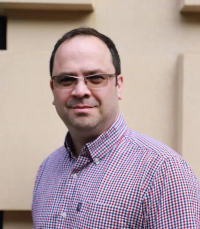
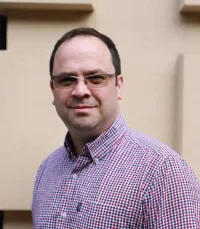
perf(cwv): optimize mobile LCP image delivery, deduplicate fonts, and defer chat widget init

diff --git a/index.html b/index.html
@@ -11,8 +11,7 @@
 <meta name="referrer" content="strict-origin-when-cross-origin">
 
 <link rel="canonical" href="https://radustoian.com" />
-<link rel="preload" as="image" href="/radu-stoian-enhance-media.jpg" media="(min-width: 641px)" fetchpriority="high">
-<link rel="preload" as="image" href="/radu-stoian-enhance-media.webp" media="(max-width: 640px)" type="image/webp" fetchpriority="high">
+<link rel="preload" as="image" href="/radu-stoian-enhance-media.webp" type="image/webp" fetchpriority="high">
 <link rel="alternate" type="text/markdown" href="https://radustoian.com/index.md.txt" title="Markdown Version">
 <link rel="describedby" type="text/markdown" href="https://radustoian.com/llms-full.txt">
 <link rel="describedby" type="application/json" href="https://radustoian.com/metadata.json">
@@ -54,14 +53,13 @@
 
 <link rel="preconnect" href="https://fonts.googleapis.com">
 <link rel="preconnect" href="https://fonts.gstatic.com" crossorigin>
-<link rel="stylesheet" href="https://fonts.googleapis.com/css2?family=Fraunces:ital,opsz,wght@0,9..144,500;1,9..144,400&display=swap">
-<link rel="stylesheet" href="https://fonts.googleapis.com/css2?family=Inter:wght@400;500;600&display=swap">
-<link rel="stylesheet" href="styles.css?v=3.1">
-<link rel="preload" href="chat-widget.css?v=3.6" as="style" id="nlwebChatStylesLink">
-<noscript><link rel="stylesheet" href="chat-widget.css?v=3.6"></noscript>
-<script src="js/script.js" defer></script>
+<link rel="stylesheet" href="https://fonts.googleapis.com/css2?family=Fraunces:ital,opsz,wght@0,9..144,500;1,9..144,400&family=Inter:wght@400;500;600&display=swap">
+<link rel="stylesheet" href="styles.css?v=3.3">
+<link rel="stylesheet" href="chat-widget.css?v=3.7" media="print" onload="this.media='all'" id="nlwebChatStylesLink">
+<noscript><link rel="stylesheet" href="chat-widget.css?v=3.7"></noscript>
+<script src="js/script.js?v=3.2" defer></script>
 <script src="js/webmcp.js" defer></script>
-<script src="js/chat-widget.js?v=4.0" defer></script>
+<script src="js/chat-widget.js?v=4.1" defer></script>
 </head>
 <body id="top">
 
@@ -101,9 +99,8 @@
     <header class="hero panel">
       <div class="hero-portrait card-3d">
         <picture>
-          <source media="(min-width: 641px)" srcset="/radu-stoian-enhance-media.jpg" type="image/jpeg">
-          <source media="(max-width: 640px)" srcset="/radu-stoian-enhance-media.webp" type="image/webp">
-          <img src="/radu-stoian-enhance-media.webp" width="200" height="200" alt="Radu Stoian Technical Director Enhance Media headshot" fetchpriority="high" decoding="sync">
+          <source srcset="/radu-stoian-enhance-media.webp" type="image/webp">
+          <img src="/radu-stoian-enhance-media.jpg" width="200" height="200" alt="Radu Stoian Technical Director Enhance Media headshot" fetchpriority="high" decoding="sync">
         </picture>
         <div class="fallback" style="display:none;">RS</div>
       </div>

diff --git a/js/chat-widget.js b/js/chat-widget.js
@@ -20,17 +20,17 @@
   // Ensure chat stylesheet is activated non-render-blocking
   function ensureChatStyles() {
     const preloadLink = document.getElementById('nlwebChatStylesLink');
-    if (preloadLink && preloadLink.rel !== 'stylesheet') {
-      preloadLink.rel = 'stylesheet';
+    if (preloadLink) {
+      if (preloadLink.rel !== 'stylesheet') preloadLink.rel = 'stylesheet';
+      if (preloadLink.media && preloadLink.media !== 'all') preloadLink.media = 'all';
     } else if (!document.querySelector('link[href*="chat-widget.css"]')) {
       const link = document.createElement('link');
       link.id = 'nlwebChatStylesLink';
       link.rel = 'stylesheet';
-      link.href = '/chat-widget.css?v=3.6';
+      link.href = '/chat-widget.css?v=3.7';
       document.head.appendChild(link);
     }
   }
-  ensureChatStyles();
 
   // Prevent multiple initializations
   if (document.getElementById('nlwebChatDialog')) return;
@@ -653,7 +653,7 @@
       <header class="nlweb-header">
         <div class="nlweb-header-profile">
           <div class="nlweb-avatar-wrap">
-            <img src="/radu-stoian-enhance-media.webp" alt="Radu Stoian" class="nlweb-avatar" onerror="this.src='/radu-stoian-enhance-media.jpg'">
+            <img src="/radu-stoian-enhance-media.webp" width="36" height="36" decoding="async" alt="Radu Stoian" class="nlweb-avatar" onerror="this.src='/radu-stoian-enhance-media.jpg'">
             <span class="nlweb-status-dot" title="Online via NLWeb"></span>
           </div>
           <div class="nlweb-header-info">
@@ -2139,8 +2139,9 @@
     }
   }
 
-  // Startup initialization on DOM ready
+  // Startup initialization on DOM ready (deferred to after initial paint to avoid forced reflows)
   function start() {
+    ensureChatStyles();
     loadHistory();
     const dom = createWidgetDOM();
     initListeners(dom);
@@ -2190,10 +2191,18 @@
     };
   }
 
+  function scheduleStart() {
+    if ('requestIdleCallback' in window) {
+      window.requestIdleCallback(start, { timeout: 300 });
+    } else {
+      setTimeout(start, 1);
+    }
+  }
+
   if (document.readyState === 'loading') {
-    document.addEventListener('DOMContentLoaded', start);
+    document.addEventListener('DOMContentLoaded', scheduleStart);
   } else {
-    start();
+    scheduleStart();
   }
 
 })();

diff --git a/chat-widget.css b/chat-widget.css
@@ -31,14 +31,12 @@
   width: 50px;
   height: 50px;
   padding: 0;
-  background: rgba(18, 8, 32, 0.88);
+  background: rgba(18, 8, 32, 0.94);
   color: var(--nlweb-text);
   border: 1px solid var(--nlweb-border-hi);
   border-radius: 50%;
   cursor: pointer;
   box-shadow: 0 10px 30px rgba(0, 0, 0, 0.6), 0 0 20px var(--nlweb-purple-glow);
-  backdrop-filter: blur(16px);
-  -webkit-backdrop-filter: blur(16px);
   transition: all 0.25s cubic-bezier(0.22, 1, 0.36, 1);
   user-select: none;
   -webkit-tap-highlight-color: transparent;
@@ -90,8 +88,6 @@
   border: 1px solid var(--nlweb-border);
   border-radius: 20px;
   box-shadow: var(--nlweb-shadow);
-  backdrop-filter: blur(28px);
-  -webkit-backdrop-filter: blur(28px);
   display: flex;
   flex-direction: column;
   overflow: hidden;
@@ -116,6 +112,8 @@
   opacity: 1;
   pointer-events: auto;
   transform: translateY(0) scale(1);
+  backdrop-filter: blur(28px);
+  -webkit-backdrop-filter: blur(28px);
 }
 
 /* Maximised Dialog State (Desktop: 80% height, 40% width) */
